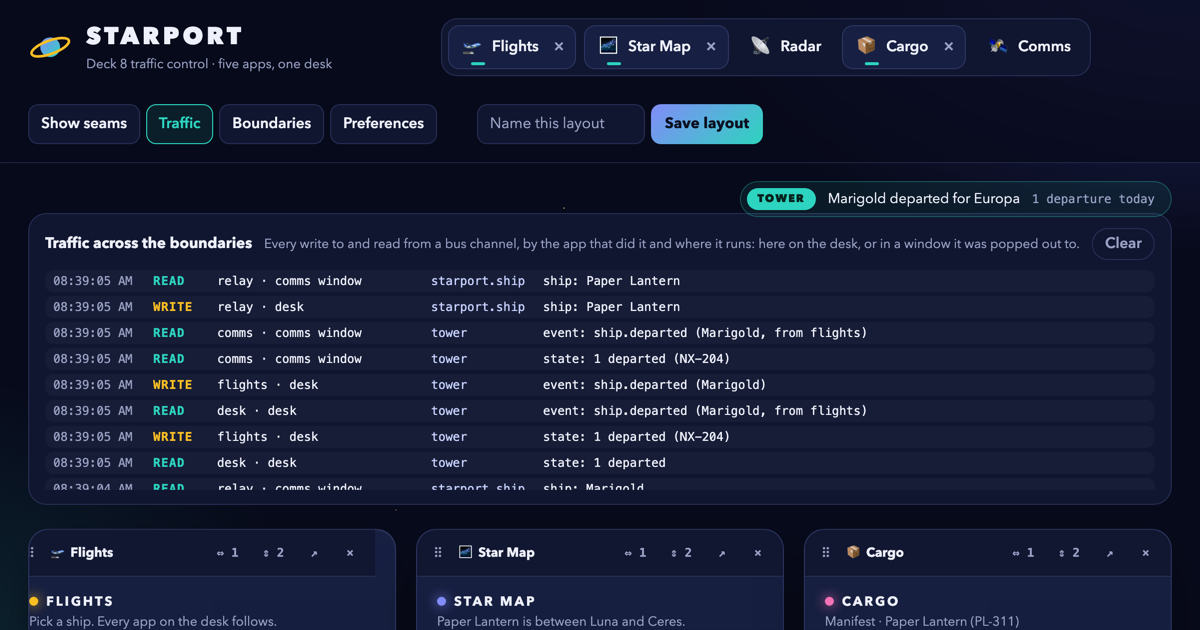
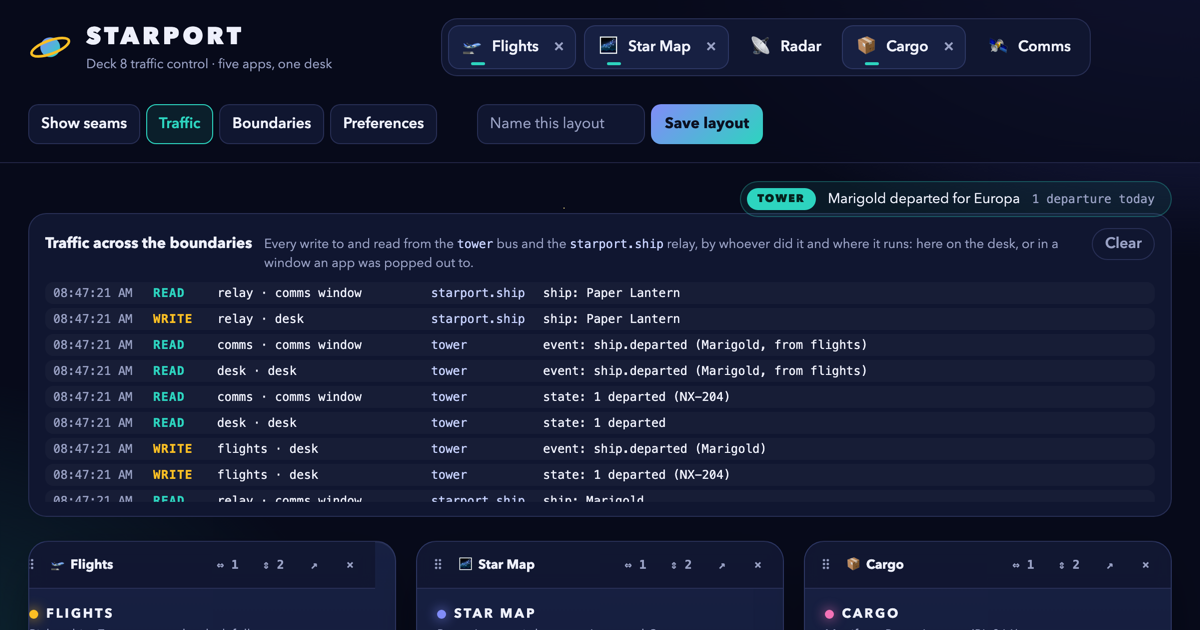
fix(examples): review findings — Traffic lines in the order they happened; hardened state
- A write is reported before it is made, and lines are placed by when they
  were sent, so a read never shows above the write it followed.
- Tower state from any page of the origin is cleaned before it is read, and
  logged fields are clipped.
- The toggle is a disclosure (aria-expanded), the log takes focus to scroll,
  and phone header buttons form a 2x2 grid.
- Tests assert exactly one state read, ordering, and no self-read; Clear waits
  for in-flight lines. README says what is and is not logged.

diff --git a/e2e/starport-example.e2e.ts b/e2e/starport-example.e2e.ts
@@ -649,9 +649,17 @@ describe('the Starport example', () => {
     await expect.poll(() => line('write', 'desk', 'event: ship.departed (Marigold)').count()).toBe(1);
     await expect.poll(() => line('write', 'desk', 'state: 1 departed (NX-204)').count()).toBe(1);
     await expect.poll(() => line('read', 'comms window', 'event: ship.departed (Marigold, from flights)').count()).toBe(1);
-    await expect.poll(() => line('read', 'comms window', 'state: 1 departed').count()).toBeGreaterThan(0);
+    await expect.poll(() => line('read', 'comms window', 'state: 1 departed').count()).toBe(1);
     await expect.poll(() => line('read', 'desk', 'event: ship.departed (Marigold, from flights)').count()).toBe(1);
     expect(await page.locator('#traffic-empty').isVisible()).toBe(false);
+    // newest first, by when each was sent: the desk's read of the event sits above the write it followed
+    const order = await lines.evaluateAll((items) => items.map((item) => `${item.dataset.kind} ${item.dataset.where} ${item.querySelector('.what')?.textContent}`));
+    const wroteAt = order.indexOf('write desk event: ship.departed (Marigold)');
+    const readAt = order.indexOf('read desk event: ship.departed (Marigold, from flights)');
+    expect(readAt).toBeGreaterThanOrEqual(0);
+    expect(wroteAt).toBeGreaterThan(readAt);
+    // Flights does not log its own write as a read
+    expect(await lines.filter({ hasText: 'flights · desk' }).and(page.locator('[data-kind="read"]')).count()).toBe(0);
     // the ship picked on the desk crossed to the window's own agent through the relay
     await expect.poll(() => line('write', 'desk', 'ship: Marigold').count()).toBe(1);
     await expect.poll(() => line('read', 'comms window', 'ship: Marigold').count()).toBe(1);
@@ -673,13 +681,15 @@ describe('the Starport example', () => {
     await expect.poll(() => line('read', 'desk', 'event: ship.departed (Slow Comet, from flights)').count()).toBe(1);
     await expect.poll(() => line('read', 'comms window', 'event: ship.departed (Slow Comet, from flights)').count()).toBe(1);
 
-    // Clear empties it; it fills again with what crosses next
+    // Clear empties it, once the last of what was in flight has landed
+    await expect.poll(() => line('read', 'comms window', 'ship: Slow Comet').count()).toBe(1);
+    await expect.poll(() => line('read', 'desk', 'ship: Slow Comet').count()).toBe(1);
     await page.locator('#traffic-clear').click();
-    expect(await lines.count()).toBe(0);
+    await expect.poll(() => lines.count()).toBe(0);
     expect(await page.locator('#traffic-empty').isVisible()).toBe(true);
     await page.locator('#traffic-toggle').click();
     expect(await page.locator('#traffic').isVisible()).toBe(false);
-    expect(await page.locator('#traffic-toggle').getAttribute('aria-pressed')).toBe('false');
+    expect(await page.locator('#traffic-toggle').getAttribute('aria-expanded')).toBe('false');
     // a popped-out window has no Traffic panel of its own: the desk shows the log
     expect(await commsWindow.locator('#traffic-toggle').isVisible()).toBe(false);
     await page.context().close();
@@ -696,7 +706,7 @@ describe('the Starport example', () => {
     await page.locator('#dock [data-app="comms"] .launch').click();
     await expect.poll(() => app(page, 'comms').locator('#tower').textContent()).toBe('1 departure today');
     const comms = page.locator('#traffic-lines li[data-kind="read"][data-where="desk"]').filter({ hasText: 'comms' });
-    await expect.poll(() => comms.filter({ hasText: 'state: 1 departed' }).count()).toBeGreaterThan(0);
+    await expect.poll(() => comms.filter({ hasText: 'state: 1 departed' }).count()).toBe(1);
     // give a replayed event every chance to show up: none does
     await page.waitForTimeout(500);
     expect(await comms.filter({ hasText: 'event:' }).count()).toBe(0);

diff --git a/examples/starport/src/main.js b/examples/starport/src/main.js
@@ -4,7 +4,7 @@ import { createWorkspace, localStorageStore } from '@braidlabs/console/workspace
 import { createEventBus } from '@braidlabs/data';
 import { APPS, baseOf, basePathOf } from './registry.js';
 import { setupTiles } from './tiles.js';
-import { starportBus } from './traffic.js';
+import { departedOf, starportBus } from './traffic.js';
 
 /**
  * The desk's whole runtime. The workspace is the `[data-braid-workspace]` element in index.html;
@@ -235,8 +235,8 @@ async function relayShips() {
   const { report } = starportBus('relay');
   await hostFdc3.addContextListener('starport.ship', (ship) => {
     if (!isShip(ship) || !seen(ship)) return;
-    between.broadcast(ship);
     report('write', 'starport.ship', `ship: ${ship.name}`);
+    between.broadcast(ship);
   });
   between.subscribe((ship) => {
     if (!isShip(ship) || !seen(ship)) return;
@@ -507,28 +507,37 @@ if (!solo) {
     $('#ticker-event').textContent = `${payload.name} departed for ${payload.to}`;
   });
   tower.subscribe((state) => {
-    const departures = state?.departed?.length ?? 0;
+    const departures = departedOf(state).length;
     if (state !== undefined) report('read', 'tower', `state: ${departures} departed`);
     $('#ticker-count').textContent = `${departures} ${departures === 1 ? 'departure' : 'departures'} today`;
   });
 
   const MAX_LINES = 60;
+  // what any page of this origin may send: kept short, so a flood of long lines stays cheap
+  const clip = (value) => String(value).slice(0, 160);
   const lines = $('#traffic-lines');
   traffic.addEventListener('crossing', ({ payload, at }) => {
     if (!['write', 'read'].includes(payload?.kind)) return;
     const line = document.createElement('li');
     line.className = payload.kind;
     line.dataset.kind = payload.kind;
-    line.dataset.where = String(payload.where);
-    const time = new Date(at).toLocaleTimeString([], { hour: '2-digit', minute: '2-digit', second: '2-digit' });
+    line.dataset.where = clip(payload.where);
+    const when = new Date(at);
+    if (Number.isNaN(when.getTime())) return;
+    line.dataset.at = String(when.getTime());
+    const time = element('time', 'at', when.toLocaleTimeString([], { hour: '2-digit', minute: '2-digit', second: '2-digit' }));
+    time.dateTime = when.toISOString();
     line.append(
-      element('time', 'at', time),
+      time,
       element('span', 'kind', payload.kind),
-      element('span', 'who', `${payload.app} · ${payload.where}`),
-      element('span', 'channel', String(payload.channel)),
-      element('span', 'what', String(payload.what)),
+      element('span', 'who', clip(`${payload.app} · ${payload.where}`)),
+      element('span', 'channel', clip(payload.channel)),
+      element('span', 'what', clip(payload.what)),
     );
-    lines.prepend(line);
+    // newest first, by when each was sent: reports travel on their own channel, so a read can
+    // arrive before the write it followed
+    const later = [...lines.children].find((other) => Number(other.dataset.at) <= when.getTime());
+    lines.insertBefore(line, later ?? null);
     while (lines.children.length > MAX_LINES) lines.lastElementChild.remove();
     $('#traffic-empty').hidden = true;
   });
@@ -539,7 +548,7 @@ if (!solo) {
   $('#traffic-toggle').addEventListener('click', () => {
     const on = $('#traffic').hidden;
     $('#traffic').hidden = !on;
-    $('#traffic-toggle').setAttribute('aria-pressed', String(on));
+    $('#traffic-toggle').setAttribute('aria-expanded', String(on));
   });
 }
 

diff --git a/examples/starport/public/apps/flights/app.js b/examples/starport/public/apps/flights/app.js
@@ -1,4 +1,4 @@
-import { departedText, starportBus } from '../../../src/traffic.js';
+import { departedOf, departedText, starportBus } from '../../../src/traffic.js';
 
 // Flights knows the ships. It knows nothing about the other apps: it broadcasts the ship the user
 // picks, raises intents for whoever can take them, and announces departures to whoever listens.
@@ -71,11 +71,12 @@ document.getElementById('hail').addEventListener('click', () => raise('HailShip'
 // shares the board with the desk. Each write and each read it takes in is reported to the traffic
 // log, which the desk shows.
 const { tower, report } = starportBus('flights');
-let wrote;
+let writing = false;
 tower.subscribe((state) => {
-  // its own write comes back to it too; that is not a read from anyone else
-  if (state !== undefined && JSON.stringify(state) !== wrote) report('read', 'tower', departedText(state));
-  departed = new Set(state?.departed ?? []);
+  // its own write comes back to it at once (a broadcast reaches this context's subscribers
+  // synchronously); that is not a read from anyone else
+  if (state !== undefined && !writing) report('read', 'tower', departedText(state));
+  departed = new Set(departedOf(state));
   for (const row of rows.rows) {
     if (!departed.has(row.dataset.ship)) continue;
     const pill = row.querySelector('.pill');
@@ -88,11 +89,16 @@ document.getElementById('depart').addEventListener('click', async () => {
   const ship = selected;
   // Last write wins: two Flights marking different ships in the same instant could lose one.
   const state = { departed: [...departed, ship.id.registry] };
-  wrote = JSON.stringify(state);
-  tower.broadcast(state);
+  // each write is reported before it is made, so its line is stamped before any read of it
   report('write', 'tower', departedText(state));
-  await tower.emit('ship.departed', { name: ship.name, to: ship.to });
+  writing = true;
+  try {
+    tower.broadcast(state);
+  } finally {
+    writing = false;
+  }
   report('write', 'tower', `event: ship.departed (${ship.name})`);
+  await tower.emit('ship.departed', { name: ship.name, to: ship.to });
   // the button has just disabled itself; keep the keyboard on the board
   rows.querySelector(`tr[data-ship="${ship.id.registry}"]`).focus();
 });

diff --git a/examples/starport/src/traffic.js b/examples/starport/src/traffic.js
@@ -10,9 +10,12 @@ import { createEventBus } from '@braidlabs/data';
  * - `starport.traffic`: a log of that. Whoever writes to or reads from a channel says so here, and
  *   the desk's Traffic panel shows it. The apps report their own traffic: the bus has no tap.
  *
- * Both are partitioned by the folder the desk is served from, as the ship relay is, so another
- * deployment on this origin is not on the same channels. An app's realm sees the page's location,
- * so it is the desk's folder there too, and in a popped-out window, the same page under `?app=`.
+ * Both are partitioned by the folder the page is served from, so another deployment on this
+ * origin is not on the same channels (by accident: not against a hostile page). An app's realm
+ * sees the page's location, so it is the desk's folder there too, and in a popped-out window, the
+ * same page under `?app=`. The ship relay takes the folder from its script's URL instead; the two
+ * agree wherever the desk is served at its folder with the trailing slash, as Pages and server.mjs
+ * redirect it to.
  */
 export const partitionOf = (path = location.pathname) => `starport${path.replace(/[^/]*$/, '')}`;
 
@@ -38,8 +41,14 @@ export function starportBus(consumer) {
   };
 }
 
+/**
+ * The ships a Tower state says have left. Any page of this origin can write the channel, so what
+ * arrives is cleaned before anyone reads it: anything but a list of strings is no departures.
+ */
+export const departedOf = (state) => (Array.isArray(state?.departed) ? state.departed.filter((id) => typeof id === 'string') : []);
+
 /** A departed list, as the traffic log says it. */
 export const departedText = (state) => {
-  const count = state?.departed?.length ?? 0;
-  return `state: ${count} departed${count ? ` (${state.departed.join(', ')})` : ''}`;
+  const departed = departedOf(state);
+  return `state: ${departed.length} departed${departed.length ? ` (${departed.join(', ')})` : ''}`;
 };

diff --git a/examples/starport/public/shell/shell.css b/examples/starport/public/shell/shell.css
@@ -204,7 +204,7 @@ dialog input[type='checkbox'] { accent-color: var(--sp-teal); width: 16px; heigh
 .panels { display: flex; gap: 6px; }
 .panels button { padding: 8px 12px; border-radius: 10px; border: 1px solid var(--sp-line); background: var(--sp-panel); font-weight: 600; }
 .panels button:hover { border-color: var(--sp-indigo); }
-.panels button[aria-pressed='true'] { border-color: var(--sp-teal); color: var(--sp-teal); background: rgba(45, 212, 191, 0.1); }
+.panels button[aria-expanded='true'] { border-color: var(--sp-teal); color: var(--sp-teal); background: rgba(45, 212, 191, 0.1); }
 
 #ticker {
   display: flex; align-items: center; gap: 12px; width: fit-content; float: right;
@@ -221,6 +221,7 @@ dialog input[type='checkbox'] { accent-color: var(--sp-teal); width: 16px; heigh
 #traffic[hidden], #traffic-empty[hidden] { display: none; }
 #traffic header { display: flex; align-items: baseline; gap: 12px; flex-wrap: wrap; position: static; padding: 0; background: none; border: 0; backdrop-filter: none; z-index: auto; }
 #traffic h2 { margin: 0; font-size: 15px; }
+#traffic code { font: 12px var(--sp-mono); color: #c7d2fe; }
 #traffic header p { margin: 0; flex: 1 1 320px; color: var(--sp-dim); font-size: 13px; }
 #traffic-clear { padding: 4px 12px; border-radius: 999px; border: 1px solid var(--sp-line); background: transparent; color: var(--sp-dim); font-weight: 600; }
 #traffic-empty { margin: 12px 0 2px; color: var(--sp-dim); font-size: 14px; }
@@ -255,7 +256,7 @@ legend { padding: 0 6px; color: var(--sp-dim); font-size: 13px; }
   h1 { font-size: 20px; }
   #dock { margin-inline: 0; max-width: 100%; overflow-x: auto; scrollbar-width: none; }
   .panels, .layouts { width: 100%; flex-wrap: wrap; }
-  .panels button { flex: 1; }
+  .panels button { flex: 1 1 40%; }
   #layouts { flex-wrap: wrap; }
   #save-layout { flex: 1 1 100%; }
   #save-layout input { flex: 1; width: auto; min-width: 0; }

diff --git a/examples/starport/public/shell/index.html b/examples/starport/public/shell/index.html
@@ -48,7 +48,7 @@
 
       <div class="panels">
         <button type="button" id="seams-toggle" aria-pressed="false">Show seams</button>
-        <button type="button" id="traffic-toggle" aria-pressed="false" aria-controls="traffic">Traffic</button>
+        <button type="button" id="traffic-toggle" aria-expanded="false" aria-controls="traffic">Traffic</button>
         <button type="button" id="open-boundaries">Boundaries</button>
         <button type="button" id="open-preferences">Preferences</button>
       </div>
@@ -75,11 +75,11 @@
     <section id="traffic" aria-labelledby="traffic-title" hidden>
       <header>
         <h2 id="traffic-title">Traffic across the boundaries</h2>
-        <p>Every write to and read from a bus channel, by the app that did it and where it runs: here on the desk, or in a window it was popped out to.</p>
-        <button type="button" id="traffic-clear">Clear</button>
+        <p>Every write to and read from the <code>tower</code> bus and the <code>starport.ship</code> relay, by whoever did it and where it runs: here on the desk, or in a window an app was popped out to.</p>
+        <button type="button" id="traffic-clear" aria-label="Clear the traffic log">Clear</button>
       </header>
       <p id="traffic-empty">Nothing has crossed yet. Pick a ship in Flights, or mark one departed.</p>
-      <ol id="traffic-lines" aria-label="Crossings, newest first"></ol>
+      <ol id="traffic-lines" aria-label="Crossings, newest first" tabindex="0"></ol>
     </section>
 
     <p id="remembered" hidden>

diff --git a/examples/starport/public/apps/comms/app.js b/examples/starport/public/apps/comms/app.js
@@ -1,4 +1,4 @@
-import { departedText, starportBus } from '../../../src/traffic.js';
+import { departedOf, departedText, starportBus } from '../../../src/traffic.js';
 
 // Comms takes HailShip. It need not be open: the desk launches it for the raise. It also listens
 // to the tower's bus, and logs departures as they happen.
@@ -40,6 +40,6 @@ tower.addEventListener('ship.departed', ({ payload, source }) => {
 });
 tower.subscribe((state) => {
   if (state !== undefined) report('read', 'tower', departedText(state));
-  const departures = state?.departed?.length ?? 0;
+  const departures = departedOf(state).length;
   document.getElementById('tower').textContent = `${departures} ${departures === 1 ? 'departure' : 'departures'} today`;
 });

diff --git a/examples/starport/README.md b/examples/starport/README.md
@@ -32,11 +32,13 @@ gateway runs in the page's service worker.
   every window of the origin, so an app popped out to a window hears departures, and a Flights out
   in a window can mark them.
 - **Traffic across the boundaries.** *Traffic* opens a live log of what crosses: every write to and
-  read from a bus channel, by the app that did it, and where it runs — on the desk, or in the
-  window it was popped out to. Pop out Comms, mark a ship departed, and watch Flights write on the
+  read from the `tower` bus and the `starport.ship` relay, by whoever did it (an app, the desk, or
+  the relay), and where it runs — on the desk, or in the window an app was popped out to. FDC3
+  broadcasts and intents within a page are not logged. Pop out Comms, mark a ship departed, and watch Flights write on the
   desk and Comms read in its window. Open a Comms afterwards and it logs a state read and no
   event: state is replayed to a late reader, events are not. The apps report their own traffic to a
-  `starport.traffic` channel ([`src/traffic.js`](./src/traffic.js)); the bus itself has no tap.
+  `starport.traffic` channel ([`src/traffic.js`](./src/traffic.js)); the bus itself has no tap, so
+  the log is what each page says it did, and any page of this origin could add to it.
 - **Seams.** *Show seams* outlines every tile and labels it with its `<fragment-slot>` tag, its
   state, and the URL the worker served it from, as the Braid site's "Show the seams" does for its
   sections.
@@ -133,8 +135,9 @@ desk keeps its entries under its own folder's name, which stops accidents, not a
   worker" in the [`@braidlabs/sw` README](../../libs/braid-sw/README.md).
 - The tiles are a grid: an app has a place in an order and a span, not an x and y of its own.
 - A popped-out window has its own FDC3 agent. The desk relays the selected ship to it over a
-  `@braidlabs/data` channel scoped to the origin. The Tower is scoped to the origin too, so two desks
-  open in two tabs share one departures board.
+  `@braidlabs/data` channel scoped to the origin. The Tower and the traffic log are scoped to the
+  origin too, so two desks open in two tabs share one departures board, and each desk's Traffic
+  panel shows the other's traffic as well, labelled only `desk` or `<app> window`.
   A saved layout holds the desk, not apps that are out in windows.
 - A popped-out app's state crosses between windows through `localStorage` and a
   `BroadcastChannel`, in the clear, to any page of this origin. Fine for Starport; think before
